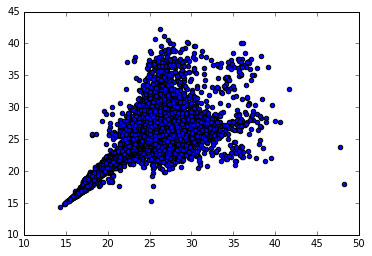
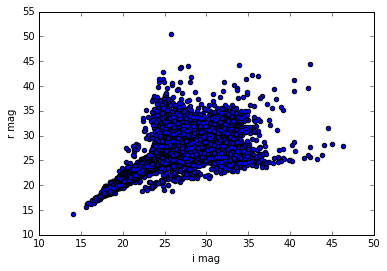
Update the doc and the README

Changed region(s): [[0.0, 0.0, 1.0, 0.9688], [0.7984, 0.2188, 0.828, 0.25], [0.3844, 0.7812, 0.414, 0.8125]]

diff --git a/docs/source/data_tuto.rst b/docs/source/data_tuto.rst
@@ -1,5 +1,8 @@
 
-Asptroy tables are great to work with, and can be used for all kind of
+.. note::
+    The corresponding Jupyter notebook can be found `here <https://github.com/nicolaschotard/Clusters/blob/master/docs/source/data_tuto.ipynb>`_. You can also reproduce these results in `ipython <https://ipython.org/>`_.
+
+``Astropy`` tables are great to work with, and can be used for all kind of
 analysis in the context of our cluster study. You can apply filters,
 group by column, concatenate them, etc. For a detailed review on
 Astropy tables, see `there <http://docs.astropy.org/en/stable/table/>`_.
@@ -19,6 +22,11 @@ If you want to start an analysis with an existing ``hdf5`` file containing catal
   /sps/lsst/data/clusters/MACSJ2243.3-0935/analysis/output_v1/MACSJ2243.3-0935_data.hdf5
 
 To load the ``forced`` catalog, do:
+
+.. code:: python
+
+    import warnings
+    warnings.filterwarnings("ignore")
 
 .. code:: python
 
@@ -141,55 +149,111 @@ The number of columns corresponding to the number of keys available in the catal
 Apply filters
 ~~~~~~~~~~~~~
 
-You can filter this table to, for example, only keep the ``i`` and ``r`` magnitude of the ``base_CircularApertureFlux_12_0_mag`` for all sources:
+You can filter this table to, for example, only keep the ``i`` and ``r`` magnitude of the ``modelfit_CModel_mag`` for all sources:
 
 .. code:: python
 
-    magi = fc['base_CircularApertureFlux_12_0_mag'][fc['filter'] == 'i']
-    magr = fc['base_CircularApertureFlux_12_0_mag'][fc['filter'] == 'r']
+    magi = fc['modelfit_CModel_mag'][fc['filter'] == 'i']
+    magr = fc['modelfit_CModel_mag'][fc['filter'] == 'r']
 
 .. code:: python
 
     %matplotlib inline
     import pylab
     pylab.scatter(magi, magr)
+    pylab.xlabel('i mag')
+    pylab.ylabel('r mag')
+    pylab.title('%i sources (galaxies+stars)' % len(magi))
 
 
 
 
 .. parsed-literal::
 
-    <matplotlib.collections.PathCollection at 0x7fe0f75886d0>
+    <matplotlib.text.Text at 0x7fe09490fb50>
 
 
 
 
-.. image:: data_tuto_files/data_tuto_16_1.png
+.. image:: data_tuto_files/data_tuto_17_1.png
 
 
-or with an other flux measurement
+A few standard filters have been implemented in ``data`` and can be used directly to get a clean sample of galaxies:  
 
 .. code:: python
 
-    magi = fc['modelfit_CModel_mag'][fc['filter'] == 'i']
-    magr = fc['modelfit_CModel_mag'][fc['filter'] == 'r']
-    pylab.scatter(magi, magr)
+    data_filtered = data.filter_table(d)
+    fc_filtered = data_filtered['forced']
+
+The same plot as in the above example now looks like
+
+.. code:: python
+
+    magi_filtered = fc_filtered['modelfit_CModel_mag'][fc_filtered['filter'] == 'i']
+    magr_filtered = fc_filtered['modelfit_CModel_mag'][fc_filtered['filter'] == 'r']
+    pylab.scatter(magi_filtered, magr_filtered)
+    pylab.xlabel('i mag')
+    pylab.ylabel('r mag')
+    pylab.title('%i sources (clean sample of galaxies)' % len(magi_filtered))
 
 
 
 
 .. parsed-literal::
 
-    <matplotlib.collections.PathCollection at 0x7fdfeafe5f10>
+    <matplotlib.text.Text at 0x7fe0ee741350>
 
 
 
 
-.. image:: data_tuto_files/data_tuto_18_1.png
+.. image:: data_tuto_files/data_tuto_21_1.png
 
+
+See `the code <https://github.com/nicolaschotard/Clusters/blob/master/clusters/data.py#L207>`_ for a few other example on how to use filters.
 
 Add a new column
 ~~~~~~~~~~~~~~~~
 
-If you want to add a new column to the table
+You can also add a new column to the table (`examples here <https://github.com/nicolaschotard/Clusters/blob/master/clusters/data.py#L53>`_)
 
+.. code:: python
+
+    from astropy.table import Column
+
+Create a simple shifted magnitude array
+
+.. code:: python
+
+    shifted_mags = fc_filtered['modelfit_CModel_mag'] + 2
+
+Add it to the initial table and plot it against the initial magnitude (for the `i` filter here)
+
+.. code:: python
+
+    fc_filtered.add_column(Column(name='shifted_mag', data=shifted_mags,
+                                  description='Shifted magnitude', unit='mag'))
+
+.. code:: python
+
+    magi_filtered = fc_filtered['modelfit_CModel_mag'][fc_filtered['filter'] == 'i']
+    magi_shifted =  fc_filtered['shifted_mag'][fc_filtered['filter'] == 'i']
+    pylab.scatter(magi_filtered, magi_filtered)
+    pylab.scatter(magi_filtered, magi_shifted, c='r')
+    pylab.xlabel('i mag')
+    pylab.ylabel('shifted i mag')
+    pylab.title('%i sources (clean sample of galaxies)' % len(magi_filtered))
+
+
+
+
+.. parsed-literal::
+
+    <matplotlib.text.Text at 0x7fe0eeaa52d0>
+
+
+
+
+.. image:: data_tuto_files/data_tuto_28_1.png
+
+
+You can also add several columns using ``fc_filtered.add_columns([Columns(...), Columns(...), etc])``.

diff --git a/README.rst b/README.rst
@@ -158,3 +158,7 @@ having to install the DM stack, you could also use the output of this
 first step for MACSJ2243.3-0935 that we have stored under::
 
   /sps/lsst/data/clusters/MACSJ2243.3-0935/analysis/output_v1/MACSJ2243.3-0935_data.hdf5
+
+A `short tutorial
+<http://clusters.readthedocs.io/en/latest/data.html#work-with-the-table>`_
+explains how to use this `hdf5` file to start an analysis.
